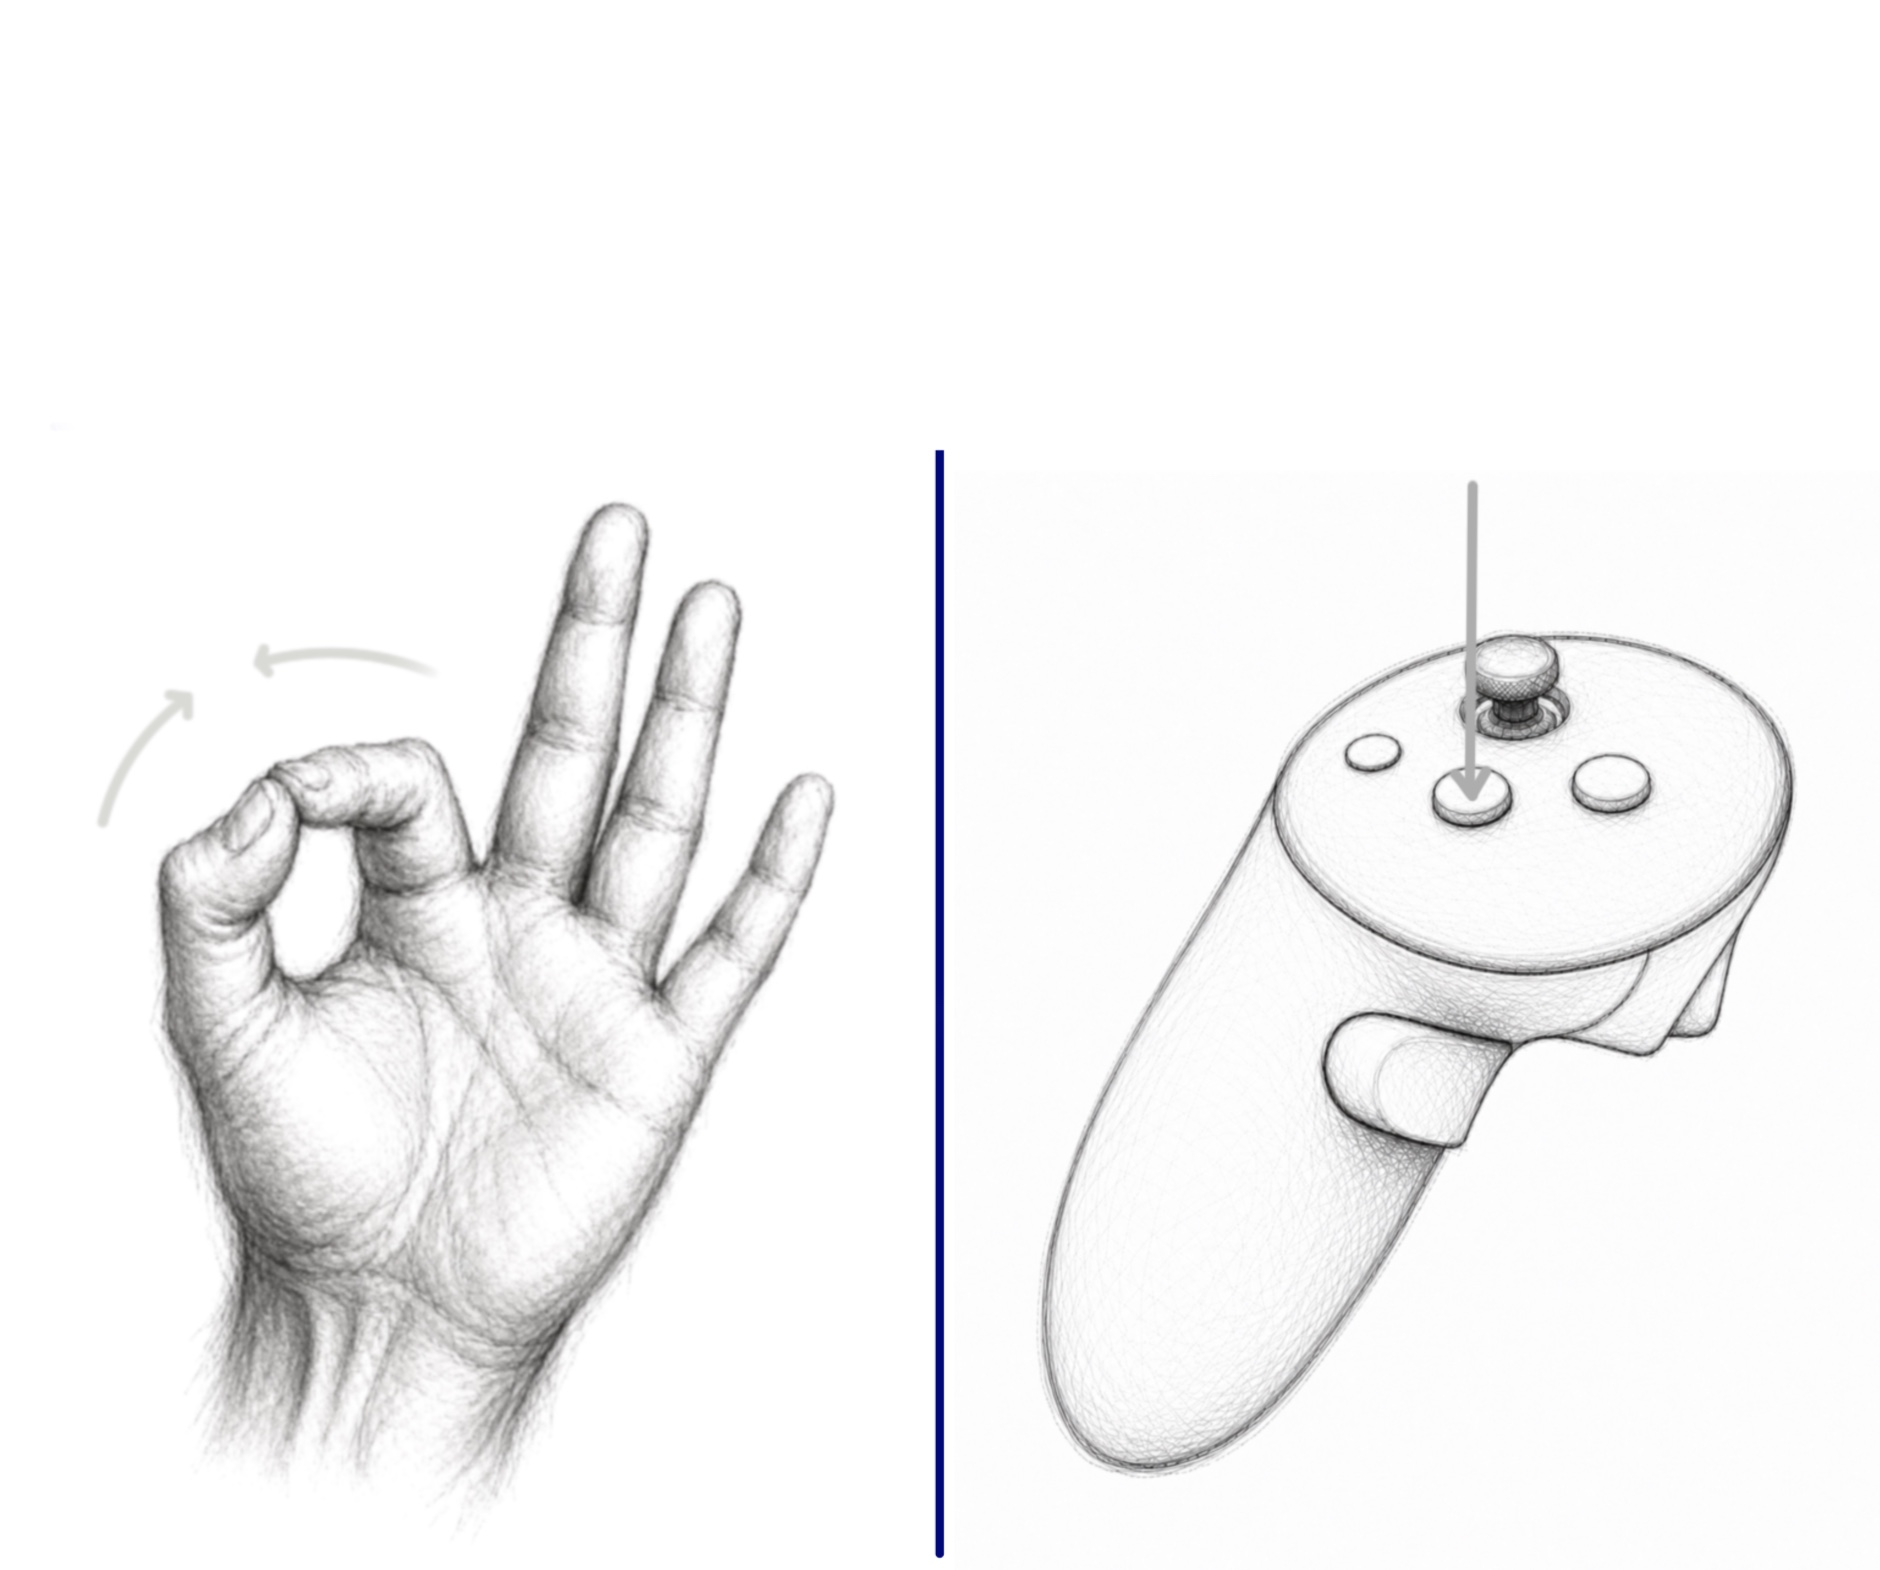
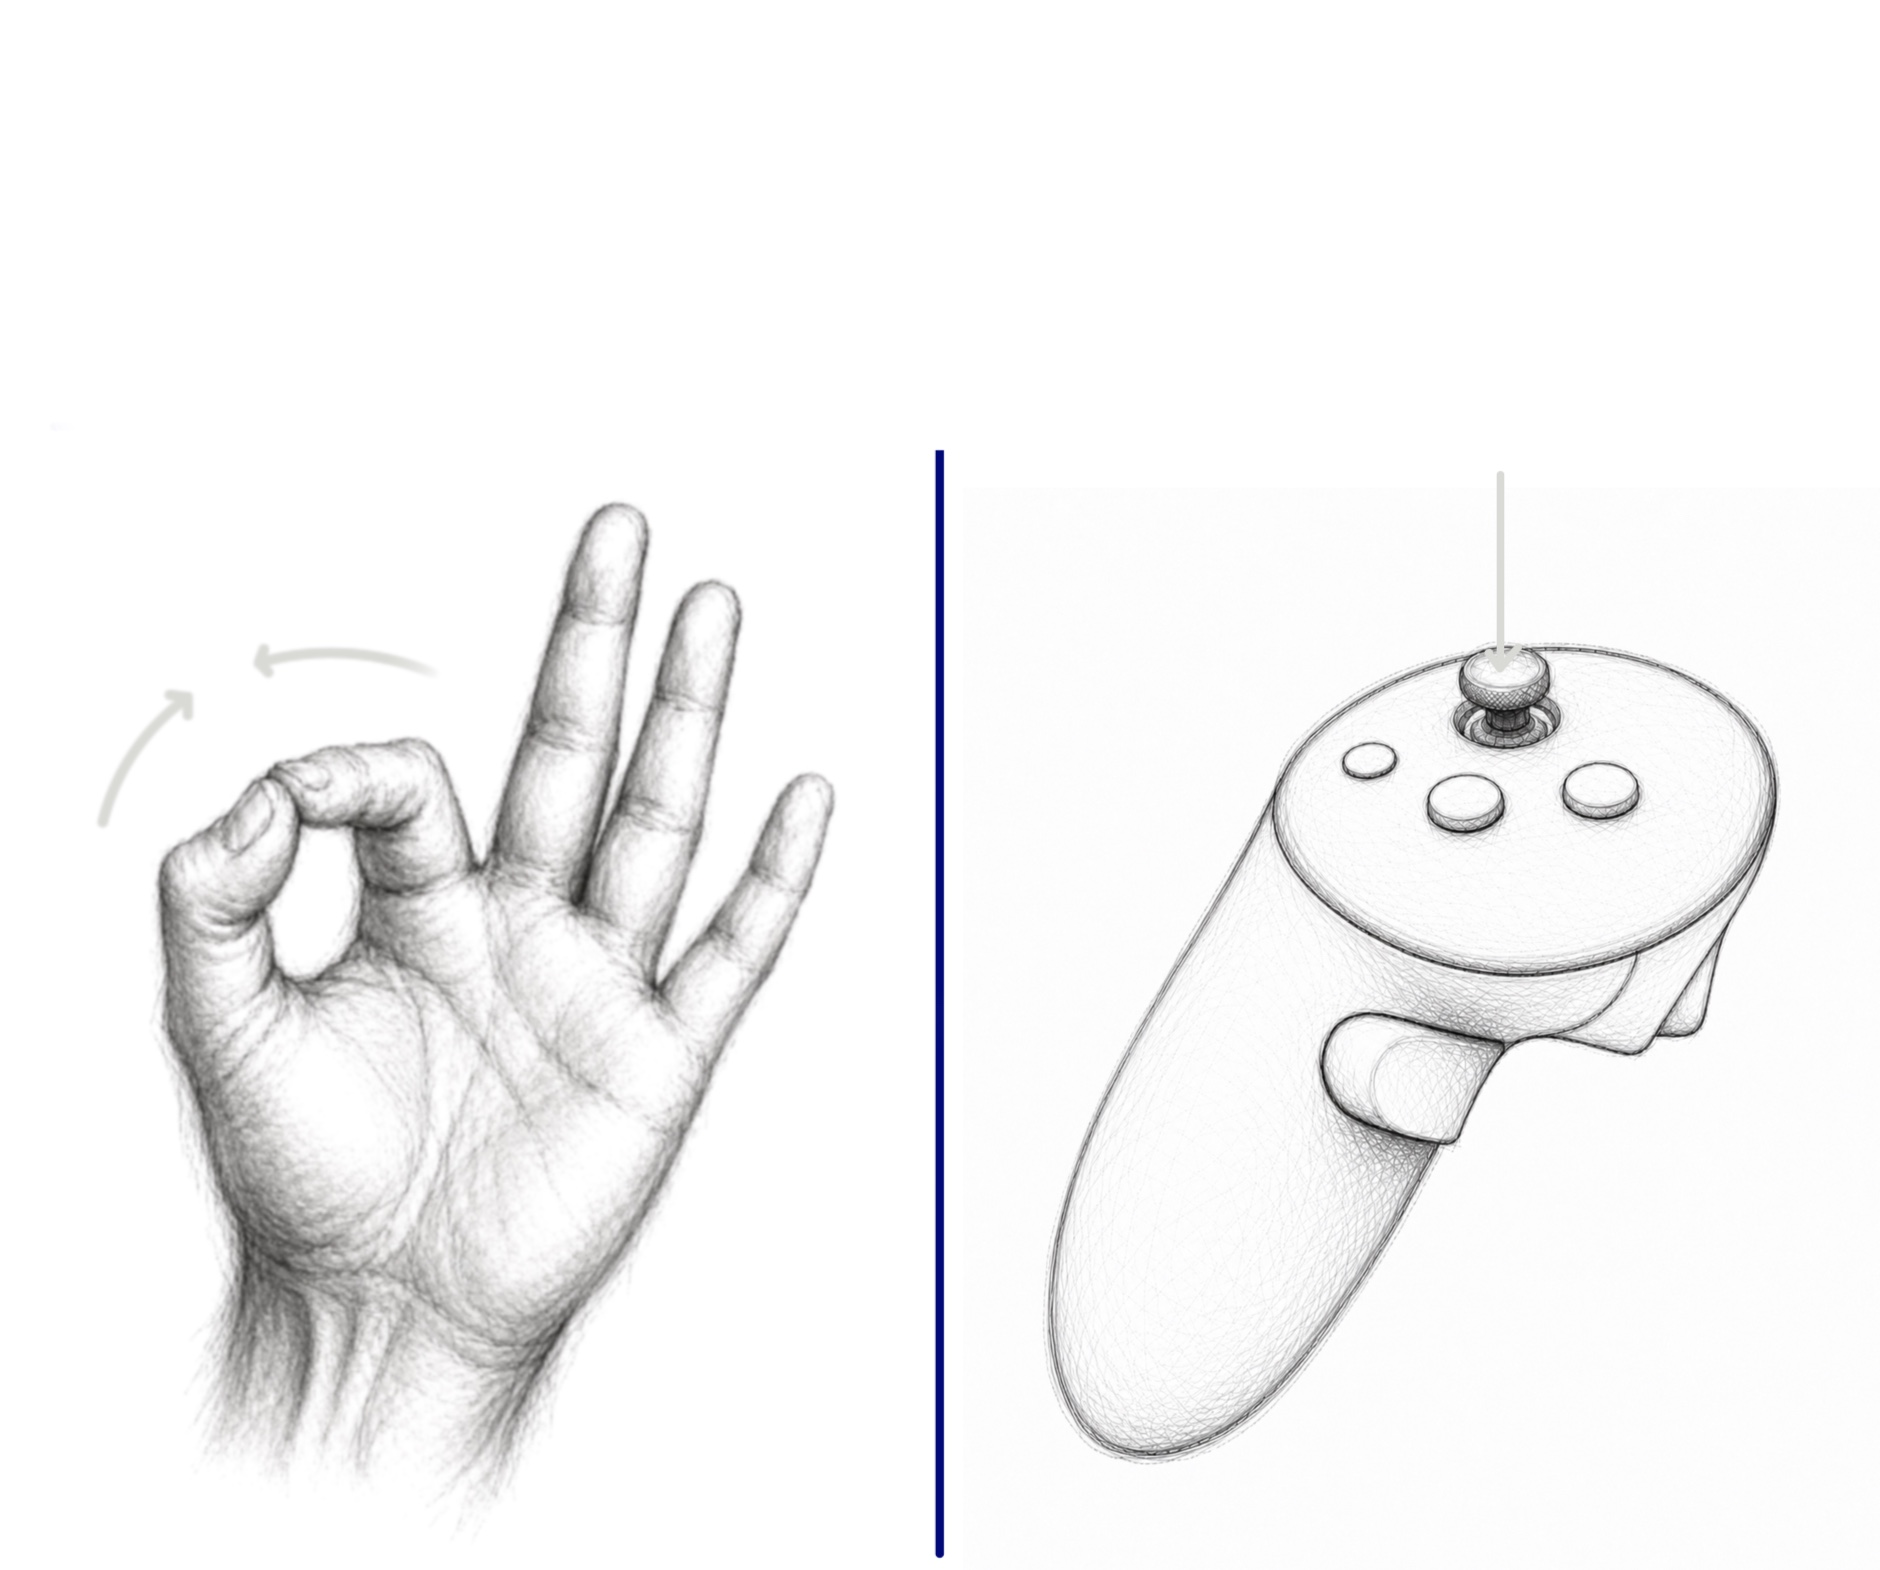
sshow video keyframes before playback, preserve directory structure, and fix Focus issues

diff --git a/src/GodotMuseum/Museum-Scripts/Placement/Helpers/Media2D/Video/VideoPlaybackController.cs b/src/GodotMuseum/Museum-Scripts/Placement/Helpers/Media2D/Video/VideoPlaybackController.cs
@@ -5,12 +5,15 @@ namespace BCSVRMuseum.Museum_Scripts.Placement.Helpers.Media2D.Video;
 public sealed class VideoPlaybackController
 {
 	private readonly Node3D _item;
+	private readonly Node3D _playIndicator;
 	private readonly VideoStreamPlayer _videoPlayer;
+	private bool _isPlayingForViewer;
 
-	public VideoPlaybackController(Node3D item, VideoStreamPlayer videoPlayer)
+	public VideoPlaybackController(Node3D item, VideoStreamPlayer videoPlayer, Node3D playIndicator)
 	{
 		_item = item;
 		_videoPlayer = videoPlayer;
+		_playIndicator = playIndicator;
 		_videoPlayer.Finished += StartFromBeginning;
 	}
 
@@ -20,24 +23,26 @@ public sealed class VideoPlaybackController
 
 		if (!isInRange)
 		{
-			if (_videoPlayer.IsPlaying())
+			if (_isPlayingForViewer)
 				Reset();
 			return;
 		}
 
-		if (!_videoPlayer.IsPlaying() || _videoPlayer.Paused)
+		if (!_isPlayingForViewer)
 			StartFromBeginning();
 	}
 
 	private void Reset()
 	{
-		_videoPlayer.Paused = false;
-		_videoPlayer.Stop();
-		_videoPlayer.StreamPosition = 0.0;
+		_isPlayingForViewer = false;
+		_videoPlayer.Paused = true;
+		_playIndicator.Visible = true;
 	}
 
 	private void StartFromBeginning()
 	{
+		_isPlayingForViewer = true;
+		_playIndicator.Visible = false;
 		_videoPlayer.Paused = false;
 		_videoPlayer.Stop();
 		_videoPlayer.StreamPosition = 0.0;

diff --git a/src/GodotMuseum/Museum-Scripts/Placement/Helpers/Media2D/Video/Video2DMediaRenderer.cs b/src/GodotMuseum/Museum-Scripts/Placement/Helpers/Media2D/Video/Video2DMediaRenderer.cs
@@ -9,11 +9,20 @@ public static class Video2DMediaRenderer
 	public static async Task<VideoPlaybackController> Render(Media2DDisplayInstance instance, string path)
 	{
 		var player = new VideoStreamPlayer { Stream = new VideoStreamTheora { File = path }, Autoplay = false, Loop = false };
+		player.VolumeDb = -80.0f;
 
 		instance.Item.AddChild(player);
 
 		await instance.Item.ToSignal(instance.Item.GetTree(), SceneTree.SignalName.ProcessFrame);
+		player.Play();
+		await instance.Item.ToSignal(instance.Item.GetTree(), SceneTree.SignalName.ProcessFrame);
+		await instance.Item.ToSignal(instance.Item.GetTree(), SceneTree.SignalName.ProcessFrame);
+		player.Paused = true;
+		player.VolumeDb = 0.0f;
+
 		instance.ShowTexture(player.GetVideoTexture());
-		return new VideoPlaybackController(instance.Item, player);
+		var playIndicator = instance.Item.GetNode<Label3D>("Play");
+		playIndicator.Visible = true;
+		return new VideoPlaybackController(instance.Item, player, playIndicator);
 	}
 }

diff --git a/src/GodotMuseum/Museum-Scripts/Placement/Media2D/Media2DDisplayInstance.cs b/src/GodotMuseum/Museum-Scripts/Placement/Media2D/Media2DDisplayInstance.cs
@@ -33,6 +33,7 @@ public sealed class Media2DDisplayInstance
 		item.AddToGroup(groupName);
 		displayRoot.AddChild(item);
 		NodeTreeActivator.SetActive(item, true);
+		item.GetNode<Label3D>("Play").Visible = false;
 
 		return new Media2DDisplayInstance(item, item.GetNode<MeshInstance3D>("Picture"), place, slot, cellPadding);
 	}

diff --git a/src/GodotMuseum/PlatformSwitcher.cs b/src/GodotMuseum/PlatformSwitcher.cs
@@ -85,7 +85,7 @@ public partial class PlatformSwitcher : Node
 		if (_switching)
 			return;
 
-		var menuButtonPressed = _leftController.IsButtonPressed("ax_button");
+		var menuButtonPressed = _leftController.IsButtonPressed("primary_click");
 
 		if (menuButtonPressed && !_menuButtonWasPressed)
 			ToggleWorld();

diff --git a/run/README.md b/run/README.md
@@ -1,11 +1,22 @@
 # Running and deploying the VR Museum
 
-This directory contains the runtime configuration and helper scripts for the
-three supported ways of running the application:
+This directory contains the runtime configuration and helper scripts for the three supported ways of running the application:
 
 1. Deploy directly from the Godot editor.
 2. Sideload an Android APK to a Meta Quest or VIVE Focus headset.
 3. Run the exported Windows application and stream it to a headset.
+
+## Obtaining the builds
+
+Before sideloading or streaming, the  application build must be available. Either export it from Godot using **Project -> Export...** and the `Quest`, `Focus`, or `Streaming` preset, or download a prebuilt version from the [GitHub Releases page](https://github.com/jannick1312/BCs-VR-Museum/releases).
+
+The export presets place locally built files in the locations expected by the instructions and helper scripts:
+
+- `Quest` exports to `run/deployment/quest/VR-Museum.apk`.
+- `Focus` exports to `run/deployment/focus/VR-Museum.apk`.
+- `Streaming` exports to `run/stream/VR-Museum.exe`.
+
+When using a downloaded release, copy its files into the corresponding directory above before continuing.
 
 ## Configuration
 
@@ -40,30 +51,22 @@ The built-in default is used when no configuration file exists in the applicable
 
 | Operation | Configuration | Media | Logs |
 | --- | --- | --- | --- |
-| Android sideload<br>(`install.sh`/<br>`install.bat`) | The shared `config.json` is copied to the external Android path, creating or overwriting the destination file. | If the shared `media` directory exists, the scripts create the remote `images`, `videos`, and `3dPck` directories before copying the local directories. Files at the same relative path are overwritten and files that exist only on the headset remain untouched. | The installation scripts do not create or modify log files. |
+| Android sideload<br>(`install.sh`/<br>`install.bat`) | Existing app data is cleared before the shared `config.json` is copied to the external Android path. | Existing remote media is removed and the local `images`, `videos`, and `3dPck` directories are copied from scratch. | Existing logs are removed when the app data is cleared. New logs are created on the next application startup. |
 | Deployment from Godot | An existing external `config.json` remains in place and is used. If it is absent, the built-in default is used. | No project media is copied to the external Android `media` directory. Existing external media  remains in place during an APK update. | Godot deployment does not create or modify log files. |
 | Startup on Android | Existing configuration file is read if present. Otherwise the built-in default is used. | The application creates `media` and its subfolder if missing. | The application creates `logs` if missing and creates or clears `.log` files. |
 | Windows streaming startup | The shared `config.json` next to `stream` is read if present. Otherwise, the built-in default is used. | The application creates the shared `media` directory and its subfolders if missing. | The application creates `logs` next to the `.exe` if missing and creates or clears `.log` files. |
 
-Running the application locally with F5/F6 inside the Godot editor is not supported.
-
-An APK update preserves Android's external app files. A full uninstall
-or clearing the app data can remove them. Changing the package ID makes the new
-app use a different data area.
+Running the application locally inside the Godot editor is not supported. An APK update preserves Android's external app files. A full uninstall or clearing the app data can remove them. Changing the package ID makes the new app use a different data area.
 
 ## 1. Direct Android deployment from Godot
 
-If an external configuration from an earlier sideload exists at
-`/sdcard/Android/data/VR.Museum/files/config.json`, the updated application reads
-it. Otherwise, it uses the built-in default IP address.
+If an external configuration from an earlier sideload exists at `/sdcard/Android/data/VR.Museum/files/config.json`, the updated application reads it. Otherwise, it uses the built-in default IP address.
 
-Before deploying from Godot, select the correct export preset for the target VR
-headset under **Project -> Export...** because the headset type cannot be detected automatically.
+Before deploying from Godot, select the correct export preset for the target VR headset under **Project -> Export...** because the headset type cannot be detected automatically.
 
 ## 2. Android APK sideload
 
-Configuration and media are shared by sideloaded and streamed builds. Quest and
-Focus use separate APK directories, and Godot exports each preset directly to its matching directory:
+Configuration and media are shared by sideloaded and streamed builds. Quest and Focus use separate APK directories, and Godot exports each preset directly to its matching directory:
 
 ```text
 run/
@@ -84,13 +87,11 @@ run/
 └── stream/
 ```
 
-Before running the scripts, ensure that `adb` is installed, the matching APK and
-`run/config.json` exist, USB debugging is enabled, and the connected headset is available. Edit the shared configuration and pass `quest` or `focus` to the installation script. The scripts install the matching APK and copy the configuration to:
+Before running the scripts, ensure that `adb` is installed, the matching APK and `run/config.json` exist, USB debugging is enabled, and the connected headset is available. Edit the shared configuration and pass `quest` or `focus` to the installation script. The scripts install the matching APK and copy the configuration to:
 
 `/sdcard/Android/data/VR.Museum/files/config.json`
 
-The scripts resolve all paths from their own location, so they can be invoked
-from any working directory. For example, from the repository root on Windows:
+The scripts resolve all paths from their own location, so they can be invoked from any working directory. For example, from the repository root on Windows:
 
 ```bat
 run\deployment\install.bat quest
@@ -104,8 +105,7 @@ From the repository root on macOS or Linux:
 ./run/deployment/install.sh focus
 ```
 
-Alternatively, first change to the script directory and run the shorter
-commands:
+Alternatively, first change to the script directory and run the shorter commands:
 
 ```bash
 cd run/deployment
@@ -115,13 +115,13 @@ cd run/deployment
 The scripts perform these operations:
 
 1. Install or update the APK using `adb install -r`.
-2. Create the app-specific external files directory.
-3. Copy `config.json` to the headset.
-4. If `run/media` exists, create the remote `images`, `videos`, and `3dPck` directories and copy each corresponding local directory that exists.
-5. Recursively grant read, write, and execute permissions (`777`) to the external app files directory and all its contents.
+2. Clear all existing application data, including configuration, media, and logs.
+3. Recreate the app-specific external files directory.
+4. Copy `config.json` to the headset.
+5. If `run/media` exists, create the remote `images`, `videos`, and `3dPck` directories and copy each corresponding local directory that exists.
+6. Recursively grant read, write, and execute permissions (`777`) to the external app files directory and all its contents.
 
-The scripts stop immediately if an installation, directory creation, copy, or permission operation fails.
-
+The scripts stop immediately if an installation, directory creation, or copy operation fails.
 After installation and the first application startup, the headset layout is:
 
 ```text
@@ -136,7 +136,7 @@ After installation and the first application startup, the headset layout is:
     └── app-readable.log
 ```
 
-### Live Android logs
+### 2.1 Live Android logs
 
 Start the application on the headset before opening the live log. On Windows:
 
@@ -150,13 +150,11 @@ On macOS or Linux:
 ./logs.sh
 ```
 
-Both scripts show the last 100 readable log lines and then continue following
-new lines.
+Both scripts show the last 100 readable log lines and then continue following new lines.
 
 ## 3. Windows streaming build
 
-Place the exported Windows application in the `stream` directory. It reads the
-same configuration and media directories used by the sideload scripts:
+Place the exported Windows application in the `stream` directory. It reads the same configuration and media directories used by the sideload scripts:
 
 ```text
 run/
